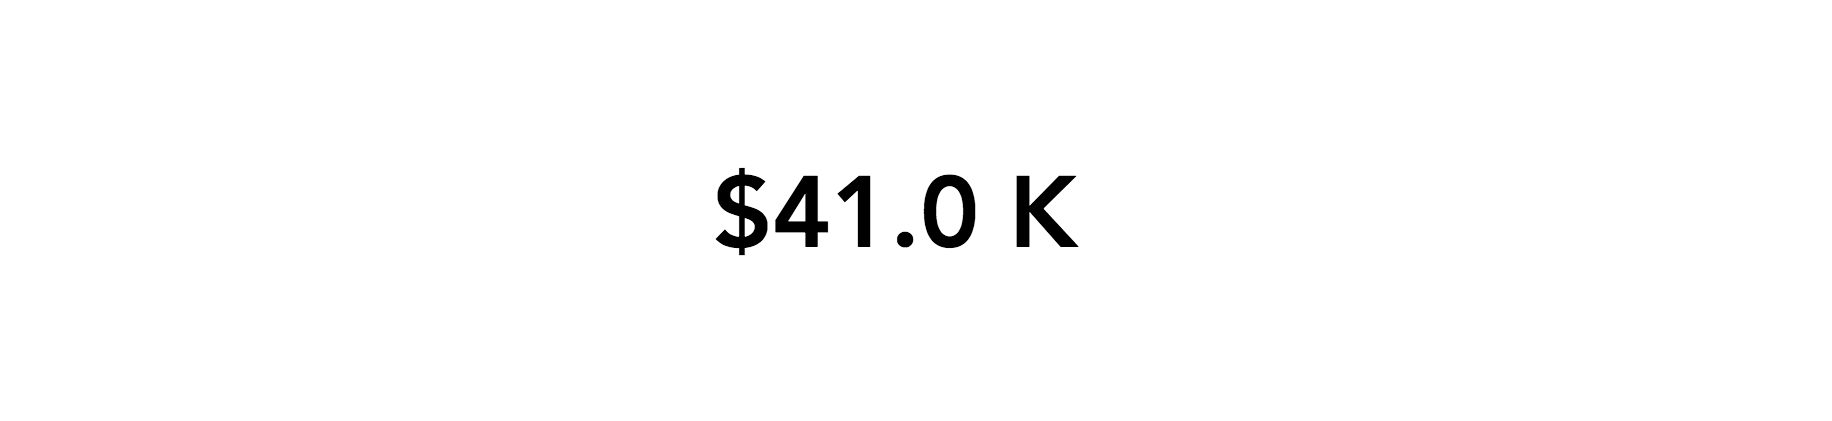
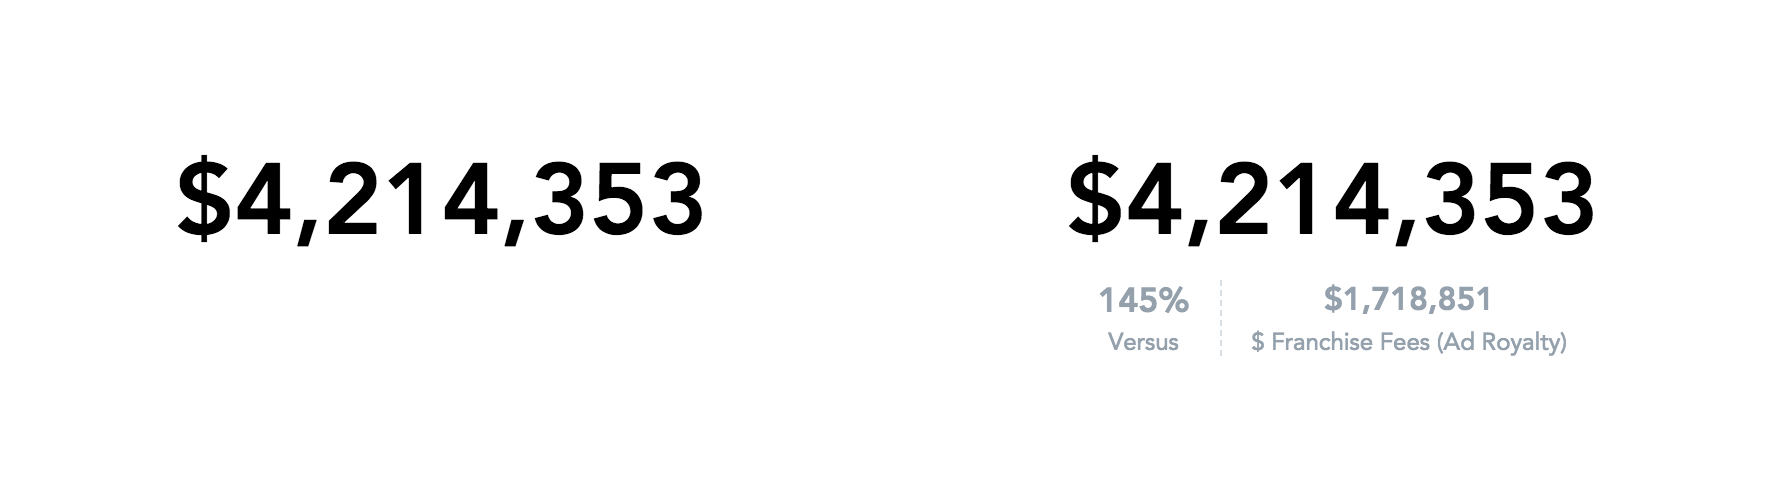
RELATED: BB-682 added example with secondary measure; changed screenshot (#135)

diff --git a/docs/headline_component.md b/docs/headline_component.md
@@ -5,7 +5,9 @@ copyright: (C) 2007-2018 GoodData Corporation
 id: headline_component
 ---
 
-Headline shows a single number. Use headlines to display measures and attributes.
+Headline shows a single number or compares two numbers. You can display both measures and attributes.
+
+Headlines have two sections: Measure (primary) and Measure (secondary). You can add one item to each section. If you add two items, the headline also displays the change in percent.
 
 ![Headline Component](assets/headline.png "Headline Component")
 
@@ -21,6 +23,8 @@ import { Headline } from '@gooddata/react-components';
 ```
 
 ## Example
+
+### Headline with a single measure (primary measure)
 
 ```jsx
 const measure = {
@@ -42,12 +46,49 @@ const measure = {
 />
 ```
 
+### Headline with two measures (primary and secondary measures)
+
+```jsx
+const measure = {
+    measure: {
+        localIdentifier: 'franchiseFeesIdentifier',
+        definition: {
+            measureDefinition: {
+                item: {
+                    identifier: franchiseFeesIdentifier
+                }
+            }
+        }
+    }
+};
+
+const secondaryMeasure = {
+    measure: {
+        localIdentifier: 'franchiseFeesAdRoyaltyIdentifier',
+        definition: {
+            measureDefinition: {
+                item: {
+                    identifier: franchiseFeesAdRoyaltyIdentifier
+                }
+            }
+        }
+    }
+};
+
+<Headline
+    projectId={projectId}
+    primaryMeasure={measure}
+    secondaryMeasure={secondaryMeasure}
+/>
+```
+
 ## Properties
 
 | Name | Required? | Type | Description |
 | :--- | :--- | :--- | :--- |
 | projectId | true | string | The project ID |
-| primaryMeasure | true | Measure | A measure definition |
+| primaryMeasure | true | Measure | The definition of the primary measure |
+| secondaryMeasure | false | Measure | The definition of the secondary measure |
 | filters | false | [Filter[]](filter_visual_components.md) | An array of filter definitions |
 | locale | false | string | The localization of the chart. Defaults to `en-US`. For other languages, see the [full list of available localizations](https://github.com/gooddata/gooddata-react-components/tree/master/src/translations). |
 | drillableItems | false | [DrillableItem[]](drillable_item.md) | An array of points and attribute values to be drillable. |
